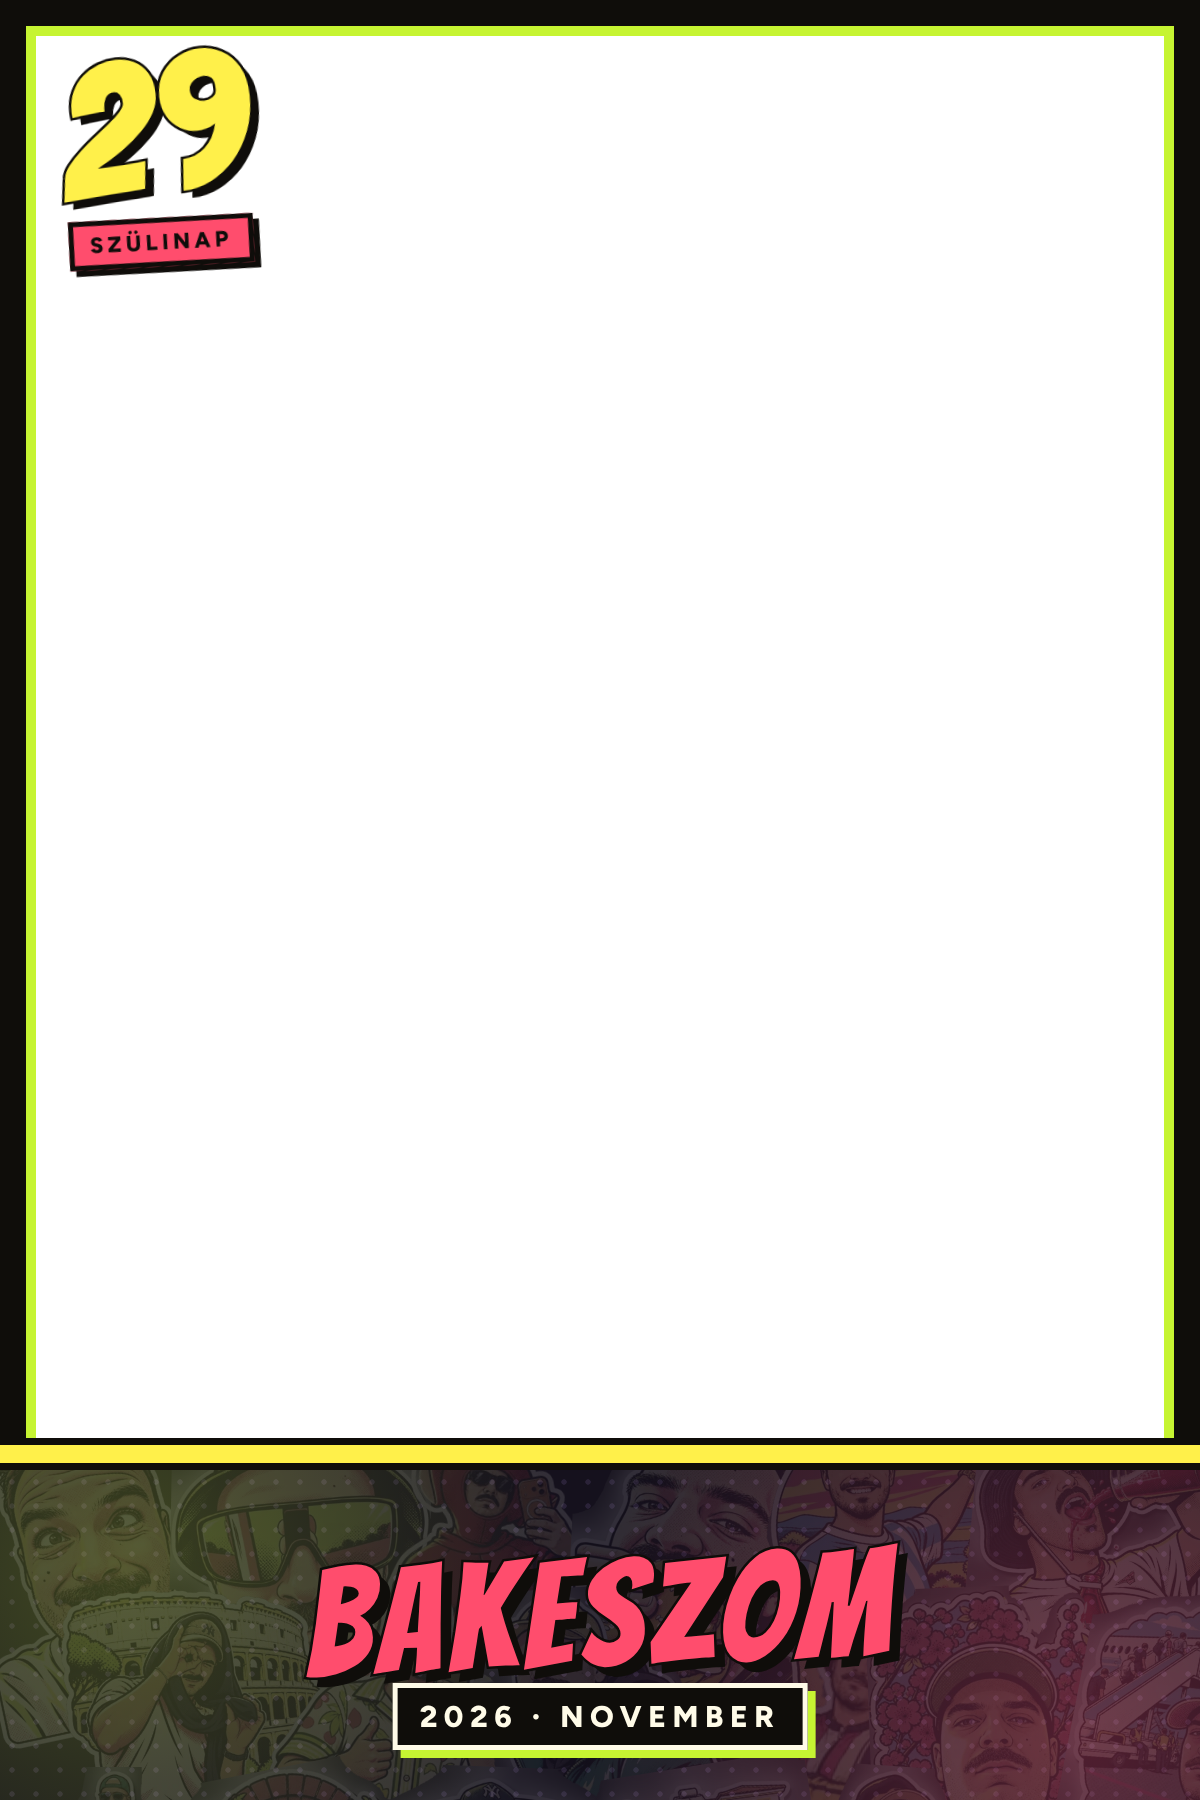
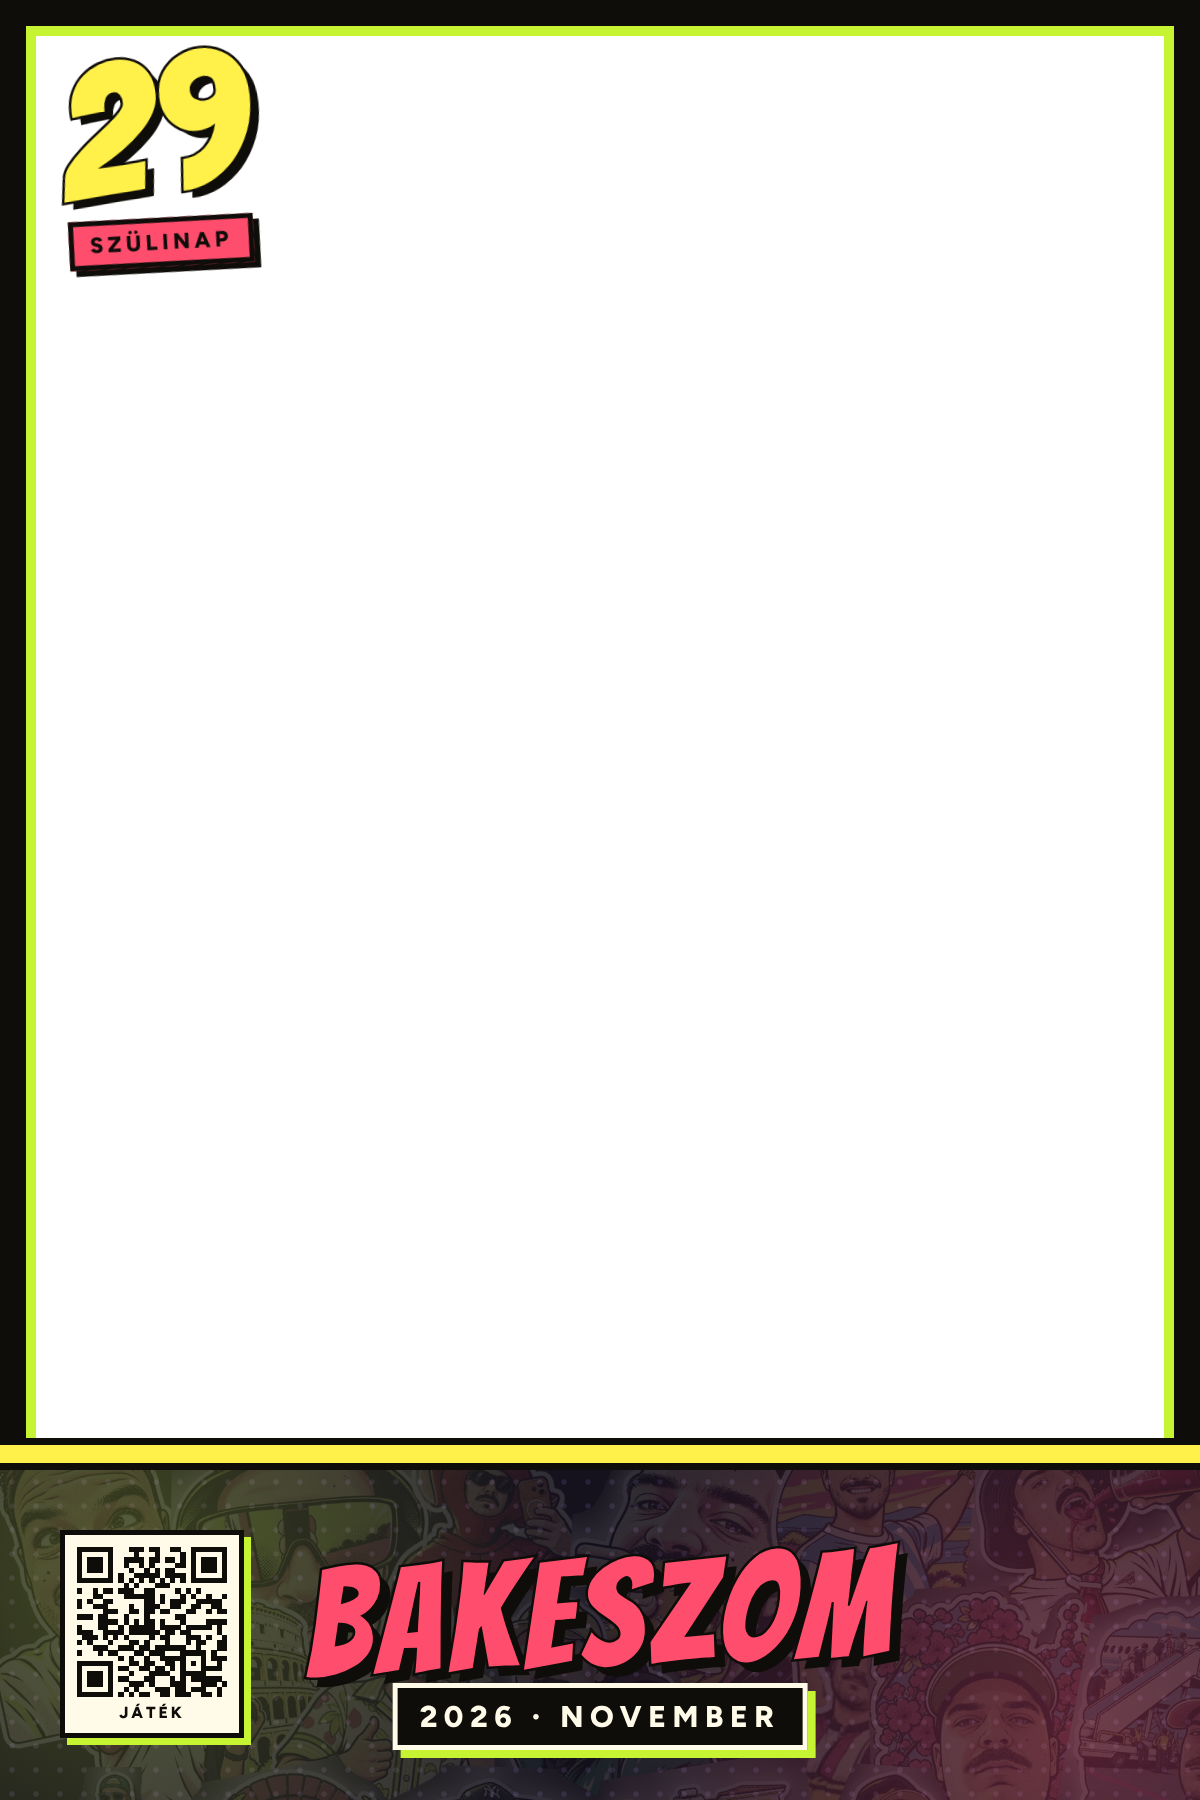
Szelfigép-keretek: kis QR-csempe bal alul a játékra (bakeszom.github.io/szulinap/app/)
Claude-Session: https://claude.ai/code/session_015SojQ3yjqSSEfb5kNKMW4T

Changed region(s): [[0.0308, 0.84, 0.2158, 0.9956]]

diff --git a/szelfigep-keretek/frame.html b/szelfigep-keretek/frame.html
@@ -17,6 +17,9 @@ html,body{margin:0;background:transparent}
 .sub{z-index:5;position:absolute;left:50%;transform:translateX(-50%);bottom:var(--SB);font:800 var(--SS) Figtree;letter-spacing:.22em;text-transform:uppercase;color:var(--paper);background:var(--ink);padding:10px 22px;border:5px solid var(--paper);box-shadow:8px 8px 0 var(--lime);white-space:nowrap}
 .n29{z-index:5;position:absolute;top:var(--NT);left:var(--NL);transform:rotate(-6deg);font:var(--N29)/.85 Bangers;color:var(--lemon);-webkit-text-stroke:5px var(--ink);paint-order:stroke fill;text-shadow:8px 8px 0 var(--ink)}
 .n29 small{display:block;font:800 var(--N29S) Figtree;letter-spacing:.2em;color:var(--ink);background:var(--pop);padding:6px 16px;border:5px solid var(--ink);box-shadow:6px 6px 0 var(--ink);-webkit-text-stroke:0;text-shadow:none;transform:rotate(3deg);width:max-content;margin-top:8px}
+.qr{z-index:5;position:absolute;left:var(--QL);bottom:var(--QB);background:var(--paper);border:5px solid var(--ink);box-shadow:7px 7px 0 var(--lime);padding:var(--QP);display:flex;flex-direction:column;align-items:center;gap:8px}
+.qr img{width:var(--QS);height:var(--QS);display:block}
+.qr span{font:800 var(--QT) Figtree;letter-spacing:.18em;text-transform:uppercase;color:var(--ink);line-height:1}
 .stk{z-index:2;position:absolute;filter:drop-shadow(7px 9px 0 rgba(0,0,0,.5))}
 .hd{z-index:2;position:absolute;filter:drop-shadow(6px 8px 0 rgba(0,0,0,.5))}
 </style></head><body><div class="f" id="f"></div>
@@ -25,10 +28,12 @@ const q=new URLSearchParams(location.search), W=+q.get("w"), H=+q.get("h"), P=W<
 const r=document.documentElement.style; r.setProperty("--W",W+"px"); r.setProperty("--H",H+"px");
 r.setProperty("--BH",(P?330:260)+"px"); r.setProperty("--NS",(P?150:128)+"px"); r.setProperty("--NB",(P?118:92)+"px");
 r.setProperty("--SS",(P?30:26)+"px"); r.setProperty("--SB",(P?50:36)+"px");
+r.setProperty("--QS",(P?150:128)+"px"); r.setProperty("--QP",(P?12:10)+"px"); r.setProperty("--QT",(P?16:14)+"px"); r.setProperty("--QL",(P?60:56)+"px"); r.setProperty("--QB",(P?62:44)+"px");
 r.setProperty("--N29",(P?190:160)+"px"); r.setProperty("--N29S",(P?22:20)+"px"); r.setProperty("--NT",(P?48:40)+"px"); r.setProperty("--NL",(P?60:52)+"px");
 const f=document.getElementById("f");
 f.innerHTML=`<div class="edge"></div><div class="band"><div class="mont" id="mont"></div></div>
 <div class="name">BAKESZOM</div><div class="sub">2026 · NOVEMBER</div>
+<div class="qr"><img src="qr.svg" alt=""><span>Játék</span></div>
 <div class="n29">29<small>SZÜLINAP</small></div>`;
 function stk(i,x,y,w,rot){const e=document.createElement("img");e.className="stk";e.src=`stk/stk-${i}.webp`;Object.assign(e.style,{left:x+"px",top:y+"px",width:w+"px",transform:`rotate(${rot}deg)`});f.appendChild(e)}
 function hd(n,x,y,w,rot){const e=document.createElement("img");e.className="hd";e.src=`${n}.png`;Object.assign(e.style,{left:x+"px",top:y+"px",width:w+"px",transform:`rotate(${rot}deg)`});f.appendChild(e)}
